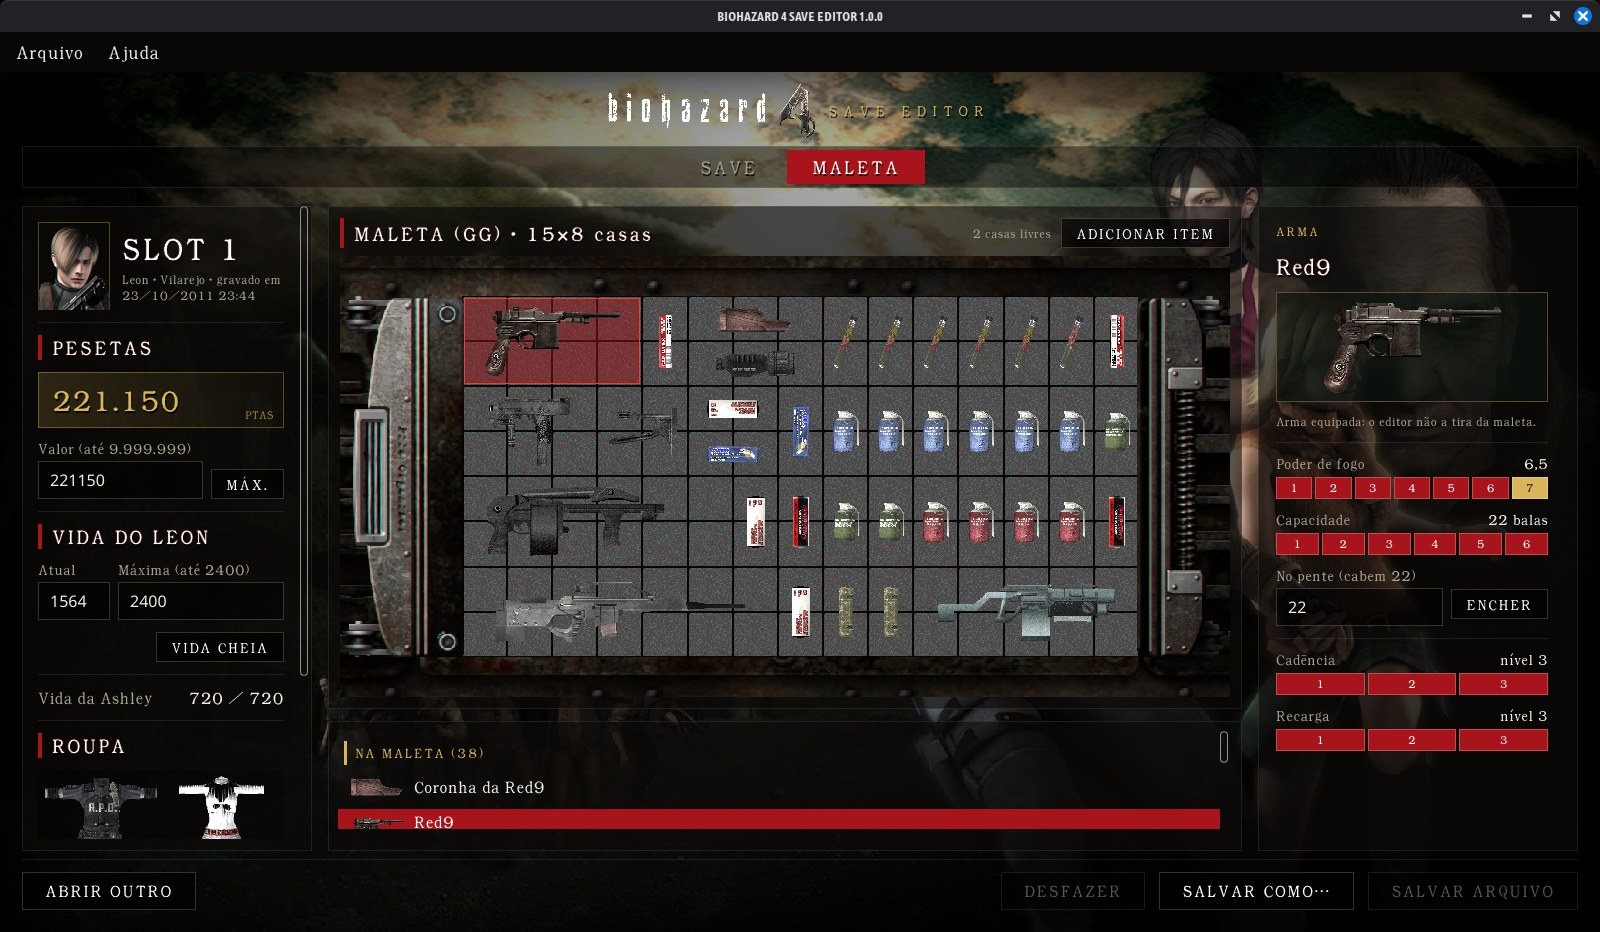
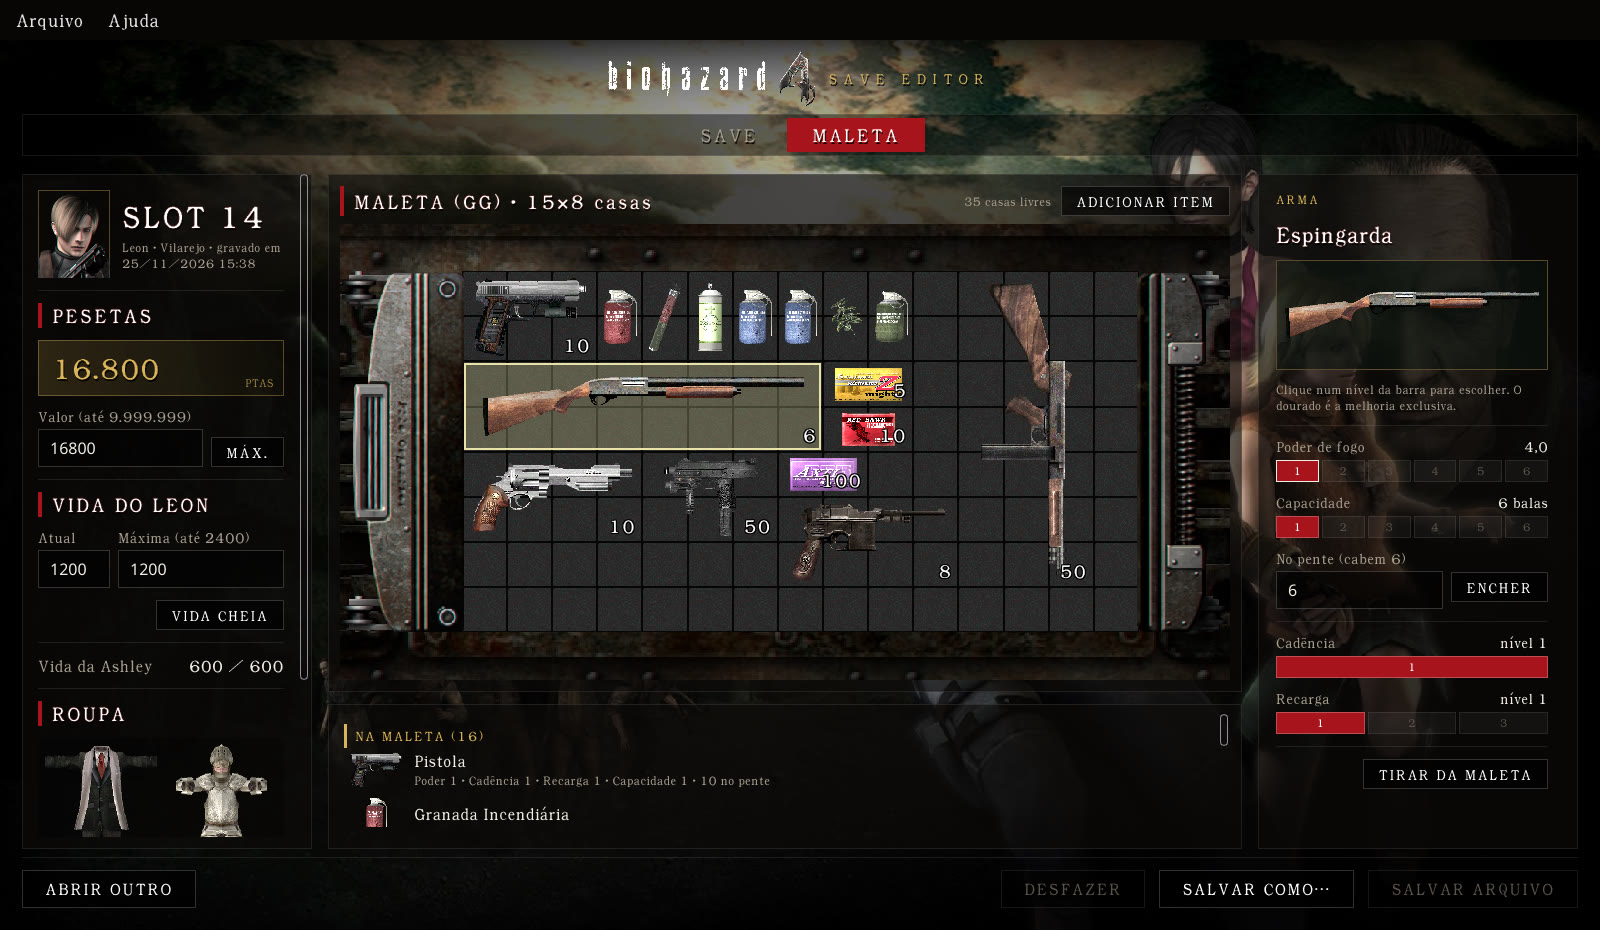
Maleta mais parecida com a do jogo

diff --git a/CHANGELOG.md b/CHANGELOG.md
@@ -9,6 +9,16 @@ mais antiga. As versões seguem o [Versionamento Semântico](https://semver.org/
 
 Primeira versão.
 
+### Correções depois do lançamento
+As correções entram na própria 1.0.0 (o download da release é atualizado).
+
+- **29/10 — Maleta mais parecida com a do jogo:** as caixas de munição
+  aparecem de frente, com o rótulo, e o Broken Butterfly e o Killer7 de lado
+  (antes eram vistos de cima e viravam uma tira fina); cada item mostra no
+  canto as balas no pente ou a quantidade; as casas ficaram mais escuras, as
+  figuras ocupam quase todo o espaço do item e o item escolhido ganhou o
+  realce claro do cursor do jogo.
+
 ### Saves
 - **Resident Evil 4 HD do Xbox 360:** só abre pacotes CON de save do jogo
   (Title ID `4343081C`), como `game00_en` e `game00_ge`.
